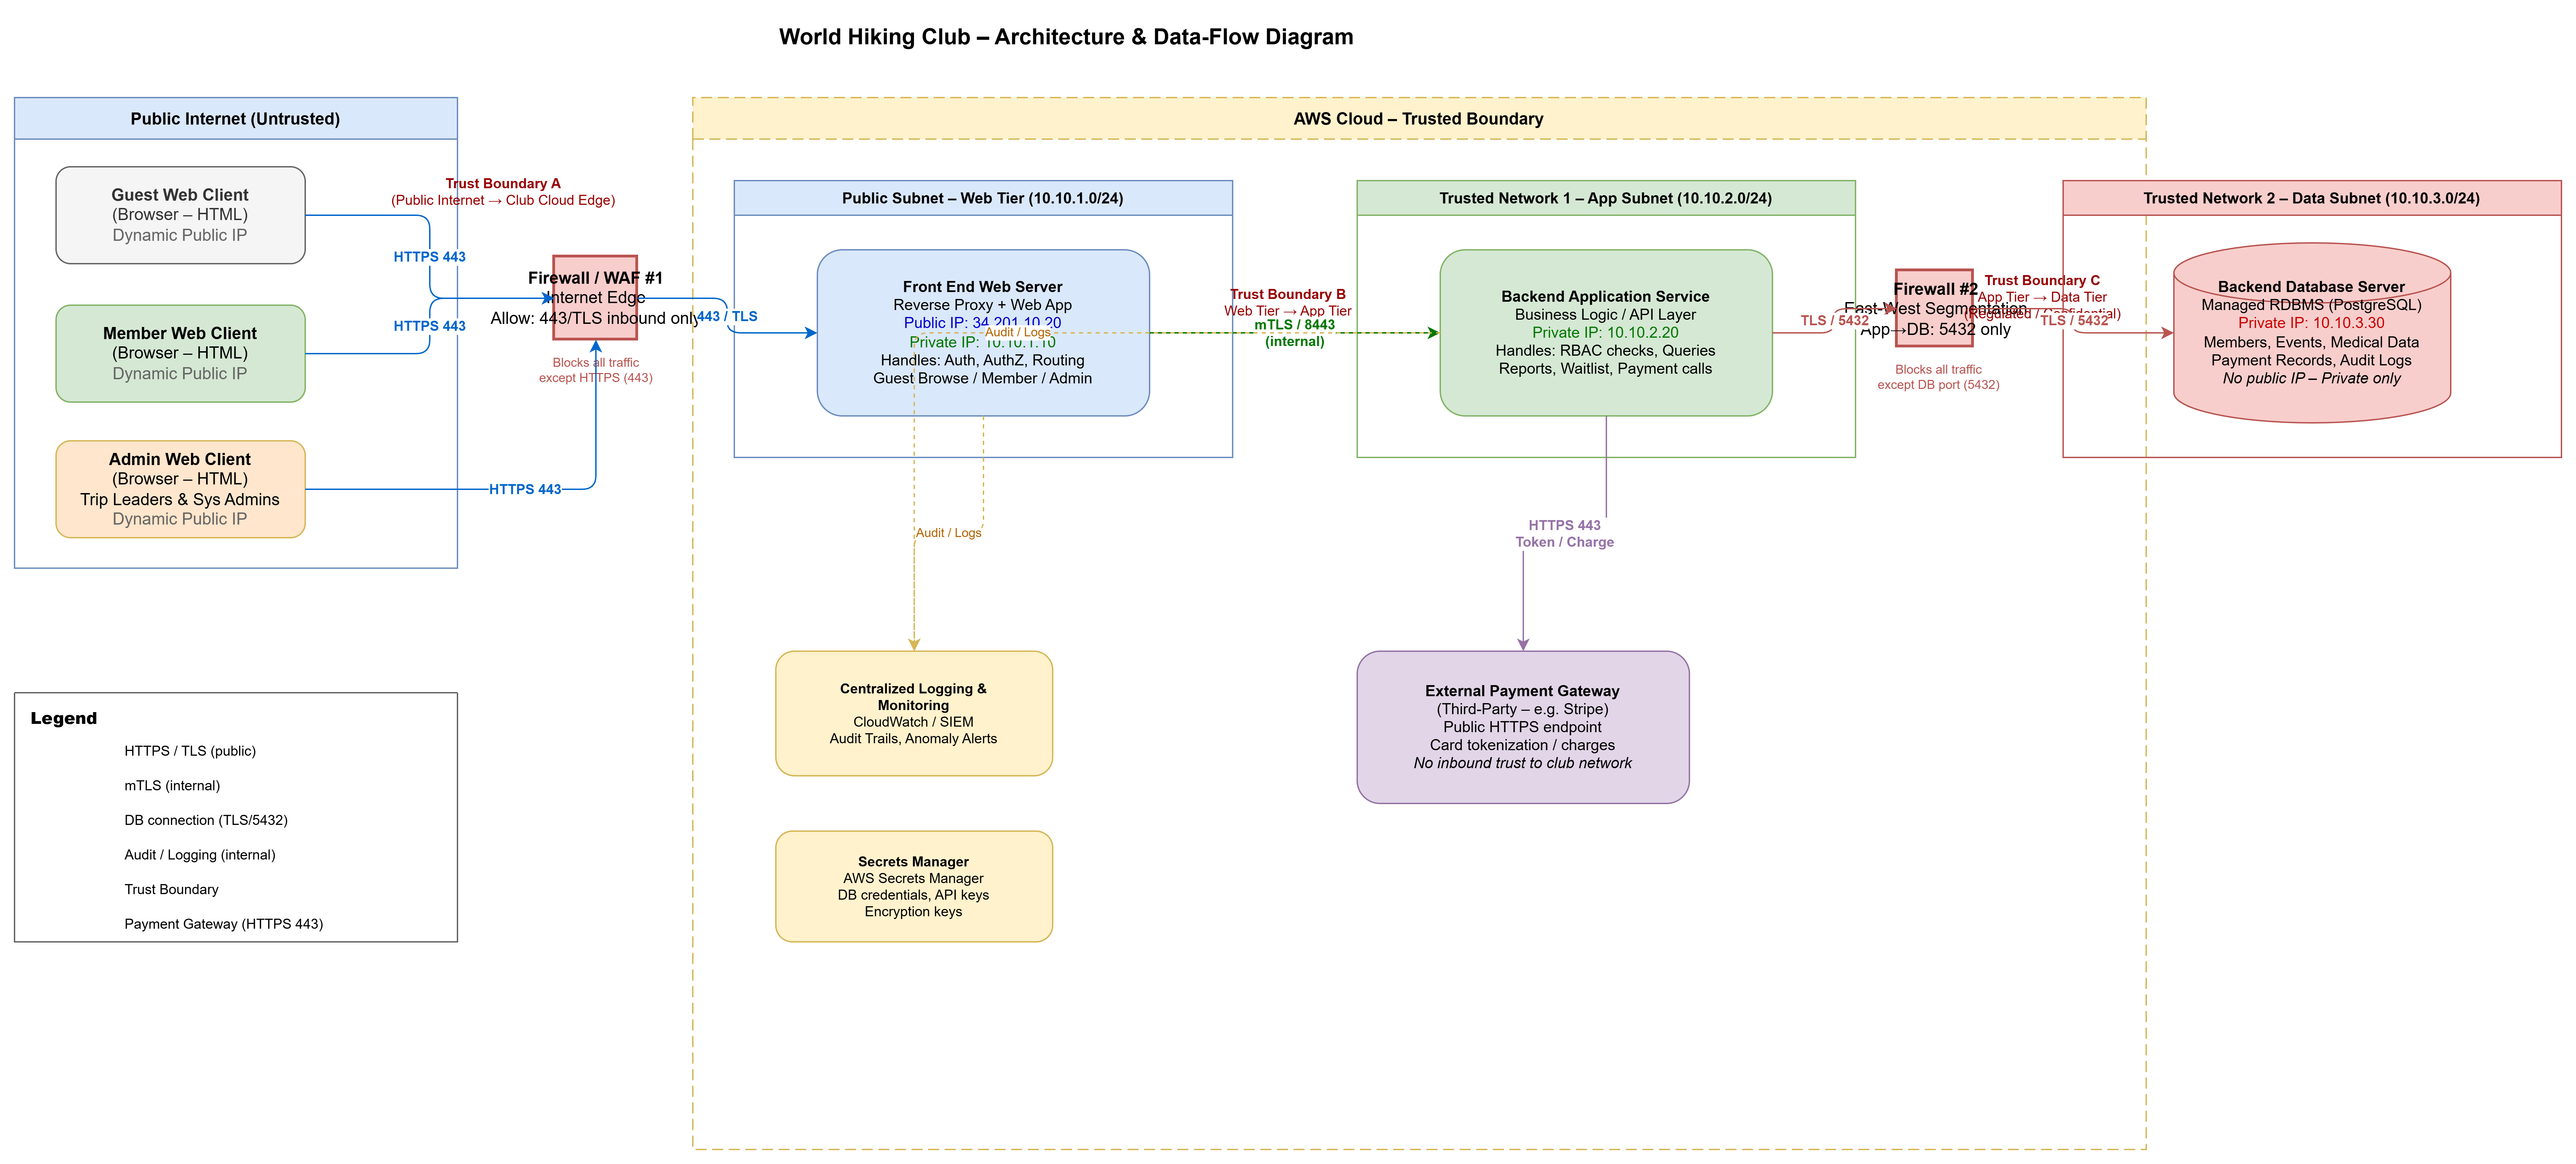
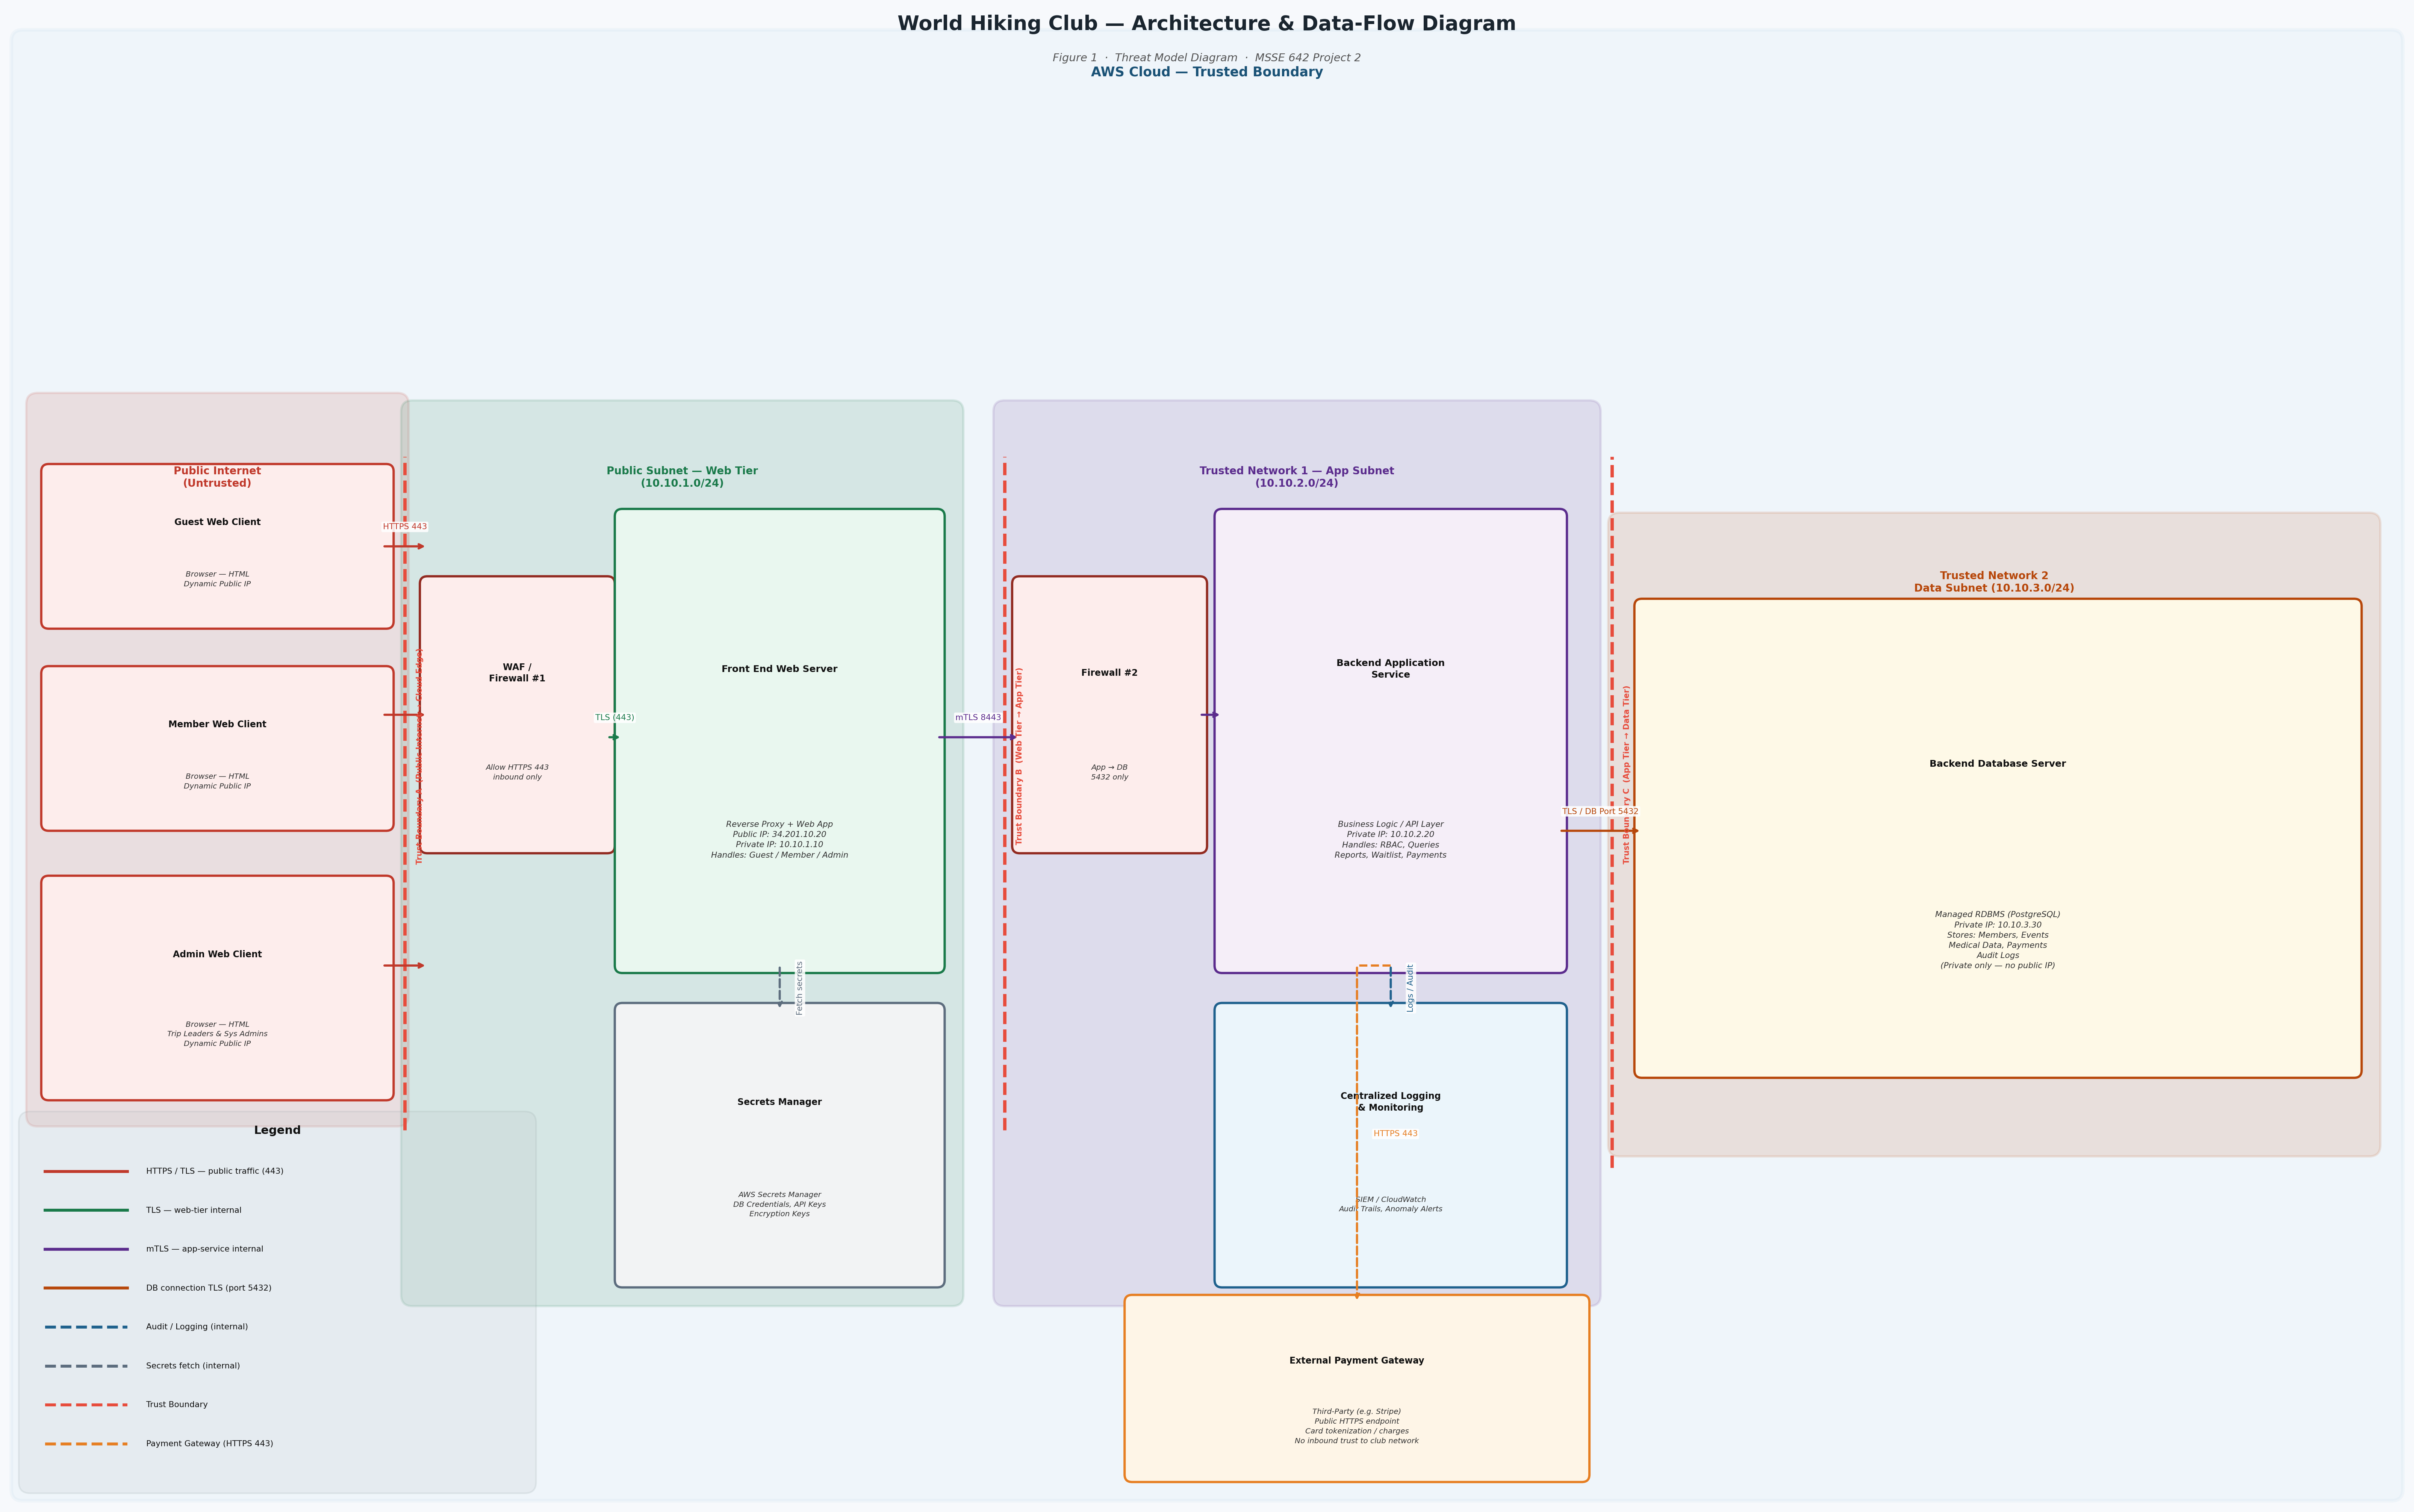
Project 2 threat analysis: update student attribution, improve diagram, fix formatting
- Changed student name to Shawn Wilkinson and updated date to June 3, 2026
- Replaced diagram with a high-resolution, color-coded architecture diagram showing all four network zones, trust boundaries A/B/C, component IPs, and labeled data flows
- Expanded Figure 1 caption to describe diagram contents
- Replaced ASCII arrow notation (->) with Unicode arrows (→) throughout
- Minor grammar fix in data flows list

diff --git a/assignments/weekly-projects/project-2-threat-analysis.md b/assignments/weekly-projects/project-2-threat-analysis.md
@@ -2,8 +2,8 @@
 
 **Course:** MSSE 642 – Software Assurance  
 **Project:** Project 2 - Threat Model Assessment (Hiking Club)  
-**Student:** Abdullah Bahir  
-**Date:** May 31, 2026  
+**Student:** Shawn Wilkinson  
+**Date:** June 3, 2026  
 
 ---
 
@@ -61,25 +61,26 @@ Key secure design concepts for this system include:
 ### Firewalls and Trust Boundaries
 - **Firewall/WAF #1 (Internet edge):** allows inbound `443/TLS` only to Front End Web Server.
 - **Firewall #2 (east-west segmentation):** allows App Service to DB on `5432` only (or equivalent RDBMS port).
-- **Trust Boundary A (Public Internet -> Club Cloud Edge):** untrusted to trusted ingress.
-- **Trust Boundary B (Web Tier -> App Tier):** controlled internal trust transition.
-- **Trust Boundary C (App Tier -> Data Tier):** high-sensitivity zone containing regulated/confidential data.
+- **Trust Boundary A (Public Internet → Club Cloud Edge):** untrusted to trusted ingress.
+- **Trust Boundary B (Web Tier → App Tier):** controlled internal trust transition.
+- **Trust Boundary C (App Tier → Data Tier):** high-sensitivity zone containing regulated/confidential data.
 
 ### Network Segments (minimum two internal trusted networks)
 - **Trusted Network 1: App Subnet (`10.10.2.0/24`)**
 - **Trusted Network 2: Data Subnet (`10.10.3.0/24`)**
 
 ### Data Flows
-1. Guest/Member/Admin browser -> Front End Web Server over HTTPS (`443`).
-2. Front End Web Server -> Backend Application Service over mTLS/internal TLS (`8443` or service mesh).
-3. Backend Application Service -> Database Server over TLS (`5432`).
-4. Backend Application Service -> External Payment Gateway over HTTPS (`443`) for payment tokenization/charges/refunds.
-5. Admin actions (reports, account disable, treasury operations) follow same path but require elevated authorization checks and auditing.
+1. Guest/Member/Admin browser → Front End Web Server over HTTPS (`443`).
+2. Front End Web Server → Backend Application Service over mTLS/internal TLS (`8443` or service mesh).
+3. Backend Application Service → Database Server over TLS (`5432`).
+4. Backend Application Service → External Payment Gateway over HTTPS (`443`) for payment tokenization, charges, and refunds.
+5. Admin actions (reports, account disable, treasury operations) follow the same path but require elevated authorization checks and auditing.
 
-### Diagram 
+### Diagram
+
 ![Project 2 Threat Model Diagram](../images/weekly%20projects/project2/threatmodel-diagram.png)
 
-Figure 1. Threat model architecture and data-flow diagram for the World Hiking Club application.
+**Figure 1.** Architecture and data-flow diagram for the World Hiking Club application showing trust boundaries, network zones (Public Internet, Public Subnet/Web Tier, App Subnet, Data Subnet), component IPs, and labeled data flows. Red dashed lines indicate trust boundaries (A, B, C); colored arrows indicate protocol and direction of each data flow.
 
 ---
 